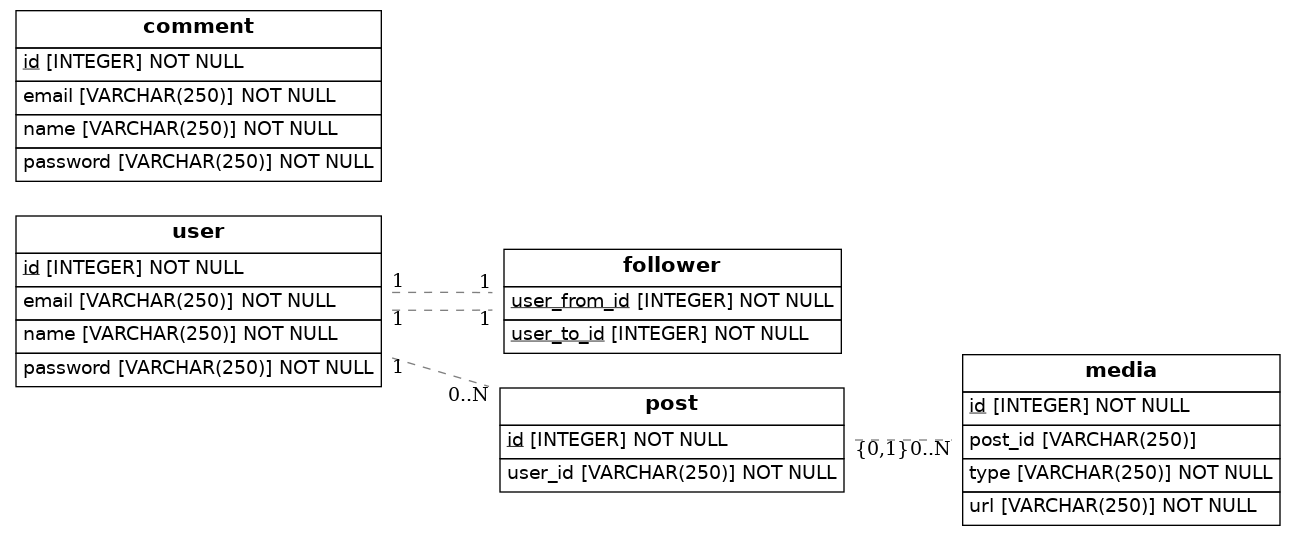
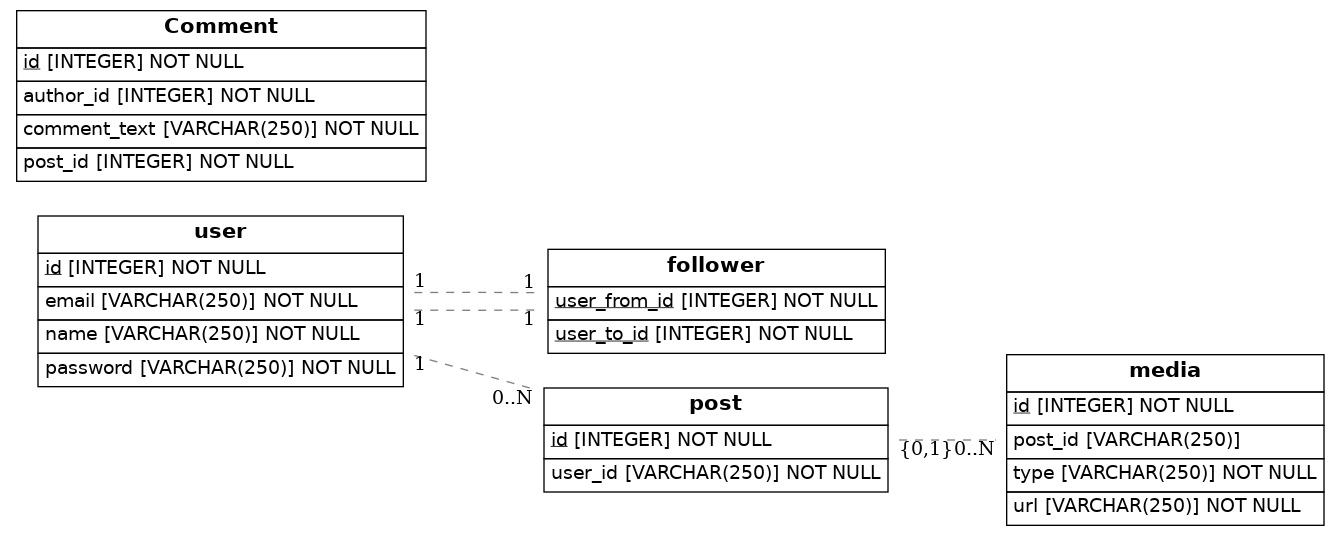
Modificacion y culminacion del Proyecto

diff --git a/src/models.py b/src/models.py
@@ -1,11 +1,17 @@
 import os
 import sys
-from sqlalchemy import Column, ForeignKey, Integer, String, Enum
+from sqlalchemy import Column, ForeignKey, Integer, String
 from sqlalchemy.orm import relationship, declarative_base
 from sqlalchemy import create_engine
 from eralchemy2 import render_er
 
 Base = declarative_base()
+
+class Follower(Base):
+    __tablename__ = 'Follower'
+    id = Column(Integer, primary_key=True)
+    user_from_id = Column(Integer, ForeignKey('User.id'), nullable=False)
+    user_to_id = Column(Integer, ForeignKey('User.id'), nullable=False) 
 
 class User(Base):
     __tablename__ = 'User'
@@ -17,26 +23,6 @@ class User(Base):
     lastname = Column(String(250), nullable=False)
     email = Column(String(250), nullable=False)
 
-class Follower(Base):
-    __tablename__ = 'Follower'
-    id = Column(Integer, primary_key=True)
-    user_from_id = Column(Integer, ForeignKey('User.id'), nullable=False)
-    user_to_id = Column(Integer, ForeignKey('User.id'), nullable=False)
-
-class Media(Base):
-    __tablename__ = 'Media'
-    id = Column(Integer, primary_key=True)
-    type = Column(Enum, nullable=False)
-    url = Column(String(250), ForeignKey('User.id'), nullable=False)
-    post_id = Column(Integer, ForeignKey('Post.id'), nullable=False)
-
-class Post(Base):
-    __tablename__ = 'Post'
-    # Here we define columns for the table address.
-    # Notice that each column is also a normal Python instance attribute.
-    id = Column(Integer, primary_key=True)
-    user_id = Column(Integer, ForeignKey('User.id'), nullable=False)
-
 class Comment(Base):
     __tablename__ = 'Comment'
     # Here we define columns for the table address.
@@ -46,12 +32,27 @@ class Comment(Base):
     author_id = Column(Integer, ForeignKey('User.id'), nullable=False)
     post_id = Column(Integer, ForeignKey('Post.id'), nullable=False)
 
+class Post(Base):
+    __tablename__ = 'Post'
+    # Here we define columns for the table address.
+    # Notice that each column is also a normal Python instance attribute.
+    id = Column(Integer, primary_key=True)
+    user_id = Column(Integer, ForeignKey('User.id'), nullable=False)
+
+
+class Media(Base):
+    __tablename__ = 'Media'
+    id = Column(Integer, primary_key=True)
+    type = Column(Enum, nullable=False)
+    url = Column(String(250), ForeignKey('User.id'), nullable=False)
+    post_id = Column(Integer, ForeignKey('Post.id'), nullable=False)
+
     def to_dict(self):
         return {}
 
 ## Draw from SQLAlchemy base
 try:
-    result = render_er(Base, 'diagram.png')
+    result = render_er(Base, "diagram.png")
     print("Success! Check the diagram.png file")
 except Exception as e:
     print("There was a problem genering the diagram")
